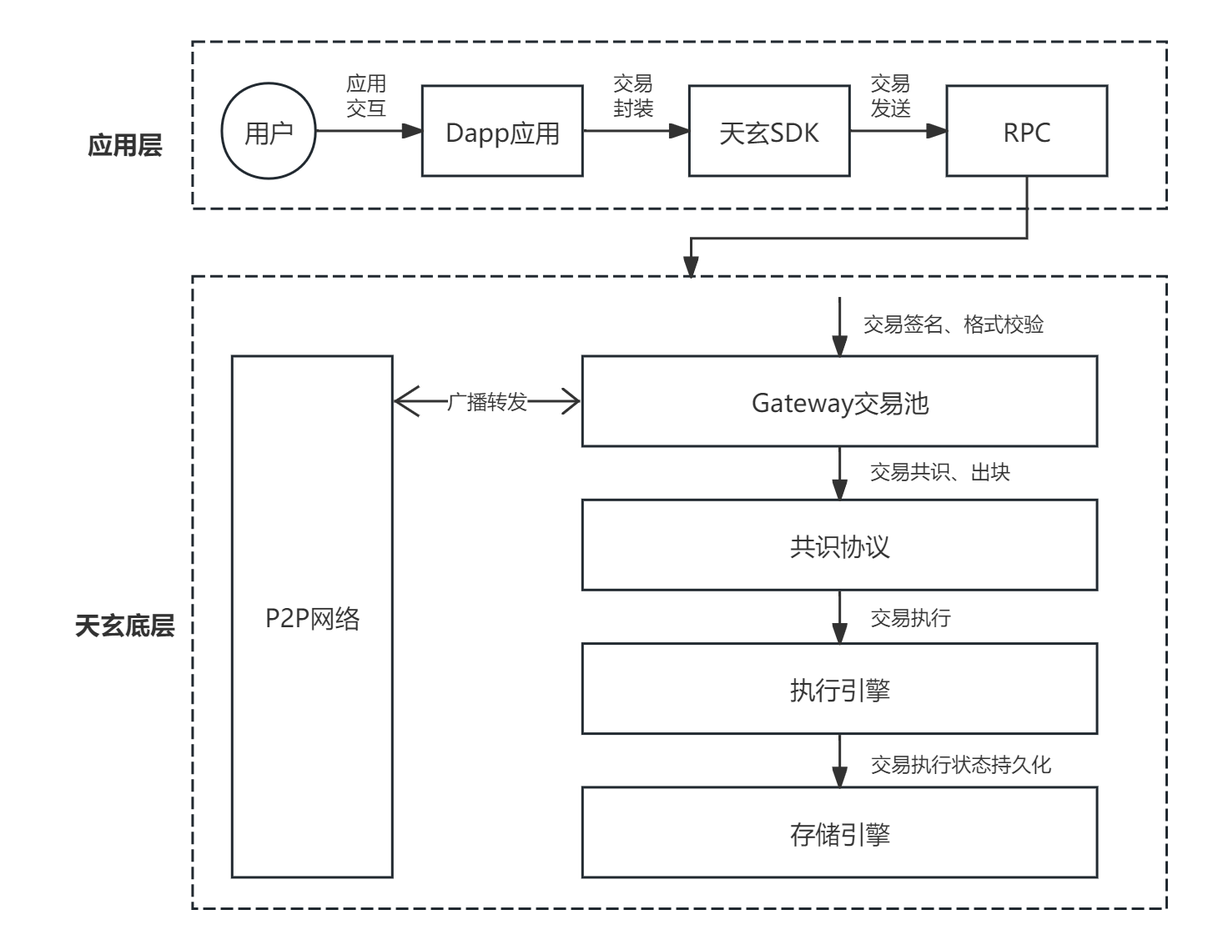
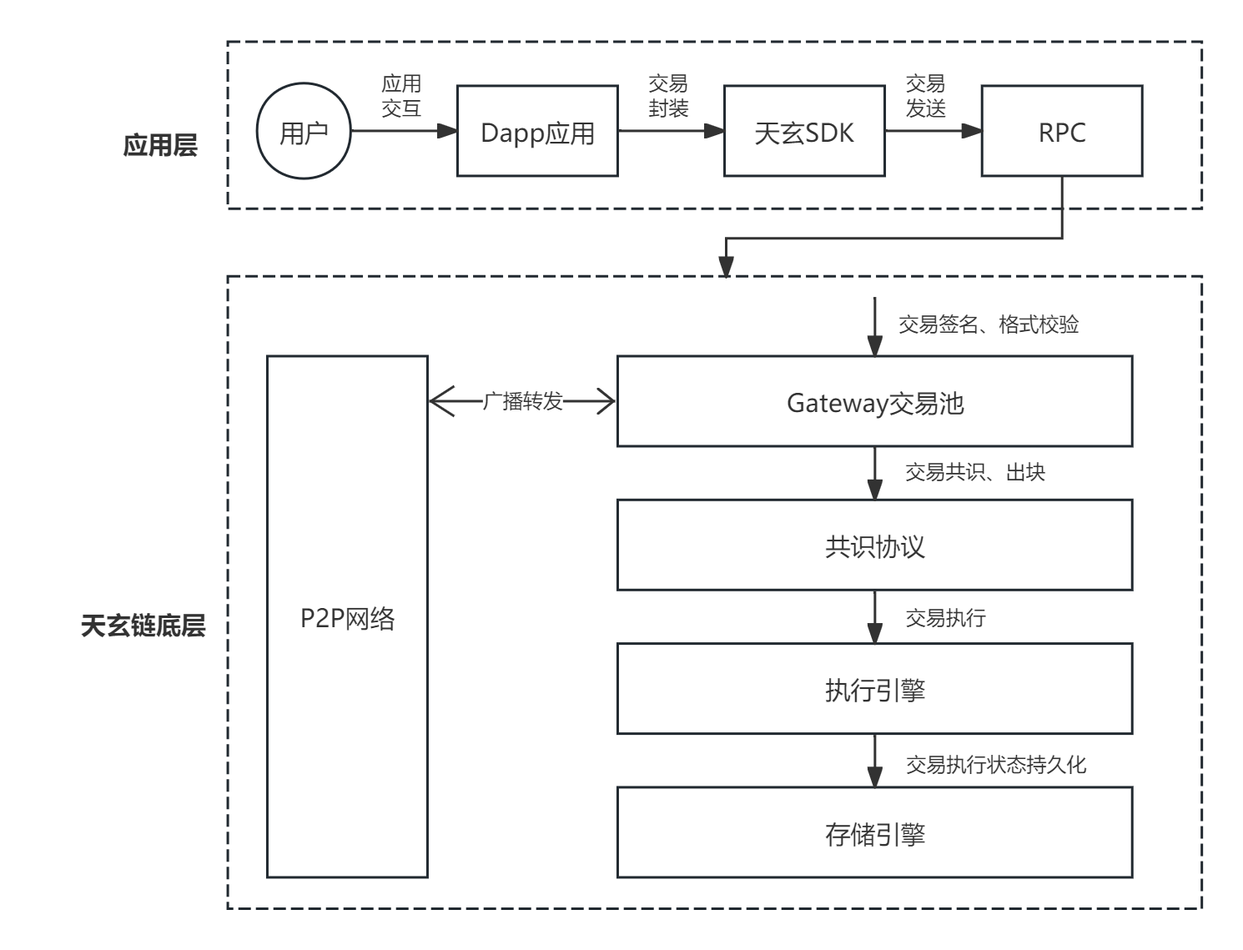
update

diff --git a/architecture/core-modules/crypto.md b/architecture/core-modules/crypto.md
@@ -1,17 +1,17 @@
 ## 4.9.1. 概述
 
-除了标准的加密算法，天玄还充分支持国产密码学算法，基于[国产密码学标准](http://www.gmbz.org.cn/main/bzlb.html)，实现了国密加解密、签名、验签、哈希算法、国密 *SSL* 通信协议，对国家密码局认定的商用密码完全支持。
+除了标准的加密算法，天玄链还充分支持国产密码学算法，基于[国产密码学标准](http://www.gmbz.org.cn/main/bzlb.html)，实现了国密加解密、签名、验签、哈希算法、国密 *SSL* 通信协议，对国家密码局认定的商用密码完全支持。
 
-国密版天玄将交易签名验签、*P2P* 网络连接、节点连接、数据落盘加密等底层模块的密码学算法均替换为国密算法，国密版天玄与标准版主要特性对比如下：
+国密版天玄链将交易签名验签、*P2P* 网络连接、节点连接、数据落盘加密等底层模块的密码学算法均替换为国密算法，国密版天玄链与标准版主要特性对比如下：
 
-|       | ECDSA版天玄            | EdDSA版天玄   | 国密版天玄 |
+|       | ECDSA 版天玄链           | EdDSA 版天玄链   | 国密版天玄链 |
 | ------- | ------------- | ------------- | ------------- |
-| SSL链接 | Openssl TLSv1.2协议     | TLSv1.3协议 | 国密TLSv1.1协议       |
-| 签名验证  | ECDSA签名算法 | Ed25519签名算法 | SM2签名算法       |
-| 消息摘要算法    | SHA-256 SHA-3 | SHA-256 SHA-3 | SM3消息摘要算法       |
-| 落盘加密算法    | AES-256加密算法 | AES-256加密算法 | SM4加密算法       |
-| 证书模式    | OpenSSL证书模式 | OpenSSL证书模式 | 国密双证书模式       |
-| 合约编译器    | 以太坊solidity编译器 | 以太坊solidity编译器	 | 国密solidity编译器|
+| SSL 链接 | Openssl TLSv1.2 协议     | TLSv1.3 协议 | 国密 TLSv1.1 协议       |
+| 签名验证  | ECDSA 签名算法 | Ed25519 签名算法 | SM2 签名算法       |
+| 消息摘要算法    | SHA-256 SHA-3 | SHA-256 SHA-3 | SM3 消息摘要算法       |
+| 落盘加密算法    | AES-256 加密算法 | AES-256 加密算法 | SM4 加密算法       |
+| 证书模式    | OpenSSL 证书模式 | OpenSSL 证书模式 | 国密双证书模式       |
+| 合约编译器    | 以太坊 solidity 编译器 | 以太坊 solidity 编译器	 | 国密 solidity 编译器|
 
 (注：国密算法 *SM2* , *SM3* , *SM4* 均基于国产密码学标准开发)
 ## 4.9.2. 系统框架
@@ -20,7 +20,7 @@
 <div style="text-align: left;">
     <figure style="display: inline-block; margin: 0;">
         <img src="../../assets/密码.png" alt="图1. 天玄密码框架" style="width: 100%; max-width: 800px; height: auto;">
-        <figcaption style="text-align: center; max-width: 1000px; font-weight: bold; font-size: 14px; color: #555;">图1. 天玄密码框架</figcaption>
+        <figcaption style="text-align: center; max-width: 1000px; font-weight: bold; font-size: 14px; color: #555;">图1. 天玄链密码框架</figcaption>
     </figure>
 </div>
 
@@ -35,11 +35,11 @@
 | 证书模式	    | OpenSSL证书模式	 | 国密双证书模式，分别为加密证书和签名证书 |
 
 ## 4.9.4. 数据结构差异
-国密版与标准版天玄在数据结构上的差异如下：
+国密版与标准版天玄链在数据结构上的差异如下：
 
-| 算法类型      | ECDSA版天玄            | EdDSA版天玄   | 国密版天玄 |
+| 算法类型      | ECDSA 版天玄链            | EdDSA 版天玄链   | 国密版天玄链 |
 | ------- | ------------- | ------------- | ------------- |
 | 签名 | ECDSA (公钥长度: 512 bits, 私钥长度: 256 bits)	     | Ed25519 (公钥长度：256bits 私钥长度：256bits)	 | SM2 (公钥长度：512 bits, 私钥长度：256 bits)       |
 | 哈希  | SHA3 (哈希串长度: 256 bits) | 	SHA3 (哈希串长度: 256 bits) | SM3 (哈希串长度: 256 bits)       |
 | 对称加解密	    | AES (加密秘钥长度: 256 bits) | AES (加密秘钥长度: 256 bits) | SM4 (对称密钥长度: 128 bits)       |
-| 交易长度	    | 520bits（其中标识符8bits,签名长度512bits） | 520bits (其中标识符8bits,签名长度512bits) | 1024bits(128字节，其中公钥512bits,签名长度512bits)       |
+| 交易长度	    | 520bits（其中标识符8bits,签名长度512bits） | 520bits (其中标识符8bits,签名长度512bits) | 1024bits (128字节，其中公钥 512bits ,签名长度 512bits )       |

diff --git a/architecture/data-structure-and-encoding.md b/architecture/data-structure-and-encoding.md
@@ -1,6 +1,6 @@
 区块链中，交易、收据、区块是三种重要的数据结构，是外界与区块链系统沟通的一种数据格式。
 
-而天玄中，对以太坊原有的数据格式上新增了天玄必备的数据字段。如下：
+而天玄链中，对以太坊原有的数据格式上新增了天玄链必备的数据字段。如下：
 
 ## 3.1. 交易数据（EthTransaction）
 
@@ -9,10 +9,10 @@
 |publicKey| bytes20       | 交易发起公钥                                       | 0       |          
 |nonce| u256          | nonce值，标识当前交易执行的唯一性                          | 1       |              
 |futureEventNumber| u256          | 系统查重使用                                | 2       |  
-|gasPrice| u256          | gas价格，天玄中暂未启用                                | 3       |           
+|gasPrice| u256          | gas价格，天玄链中暂未启用                                | 3       |           
 |gasLimit| u256          | gas限制，当前交易执行的gas消耗上限，天玄中暂无启用                | 4       |          
 |receiveAddress| bytes20       | 调用地址，交易调用的接收地址                               | 5       |     
-|value| u256          | 当前交易的转账数额，天玄中暂未启用                            | 6       |              
+|value| u256          | 当前交易的转账数额，天玄链中暂未启用                            | 6       |              
 |data| vector&lt;byte&gt; | 调用内容，若receiveAddress=0x0，则为合约代码；否则为合约方法的函数签名 | 7       |             
 |executeStates| set&lt;byte&gt;    | 读写状态，当前交易涉及读、写的状态集合                          | 8       
 |signature| vector&lt;byte&gt; | 交易发起者签名                                      | 9       |          
@@ -23,9 +23,9 @@
 | ------------ | ------------------------------ | ---------------------- | -------------------------------------------------------------------------- |
 | eventId      | bytes32                        | 当前区块内容哈希，构建链式数据        | 0                                                                          |
 | preEventId   | bytes32                        | 上一个区块内容哈希，构建链式数据       | 1                                                                          |
-| coinBase     | btyes0                         | 矿工地址，天玄中暂未启用           | 2                                                                          |
-| stateRoot    | bytes0                         | 状态跟，天玄中暂未启用            | 3                                                                          |
-| receiptsRoot | bytes0                         | 收据根，天玄中暂未启用            | 4                                                                          |
+| coinBase     | btyes0                         | 矿工地址，天玄链中暂未启用           | 2                                                                          |
+| stateRoot    | bytes0                         | 状态跟，天玄链中暂未启用            | 3                                                                          |
+| receiptsRoot | bytes0                         | 收据根，天玄链中暂未启用            | 4                                                                          |
 | epoch        | u256                           | 世代号，标记当前验证者集合所处时间单位    | 5                                                                          |
 | number       | u256                           | 区块号，标记当前区块的高度          | 6                                                                          |
 | timestamp    | u256                           | 时间戳，标记当前区块的出块时间        | 7                                                                          |

diff --git a/architecture/core-modules/storage.md b/architecture/core-modules/storage.md
@@ -2,7 +2,7 @@
 
 在传统公链架构中，核心的存储模型架构还是以 *MPT*（默克尔压缩前缀树）的方式组织，目的是方便对状态提供存在性证明。使用 *MPT* 树能够最大程度上提供数据的存在性证明的情况下，减少树更新的计算次数。但对于联盟链来说，使用 *MPT* 树是一种性能的降低。在基于 *EVM* 的账户模型数据以及合约代码中数据的存取 ，其底层就是对 *MPT* 的 *CRUD* 操作。因此，树节点的读取可能会读取多次磁盘（根据树高以及节点的大小来决定读取次数），而一个节点的变更可能会引起 *MPT* 多次的裂变。
 
-随着合约代码的存储数据越大，会导致 *EVM* 执行速度线性下降(生产环境中，出现线性下降的情况)。而天玄中，通过去 *MPT* 的存储结构来解决随着状态数据的增加而导致 *EVM* 执行速度线性下降的问题。
+随着合约代码的存储数据越大，会导致 *EVM* 执行速度线性下降(生产环境中，出现线性下降的情况)。而天玄链中，通过去 *MPT* 的存储结构来解决随着状态数据的增加而导致 *EVM* 执行速度线性下降的问题。
 ## 4.4.2. 去MPT存储
 
 ### 4.4.2.1. MPT 使用对比 <a href="#id5.4.4-cun-chu-mo-kuai-mpt-shi-yong-dui-bi" id="id5.4.4-cun-chu-mo-kuai-mpt-shi-yong-dui-bi"></a>
@@ -53,19 +53,19 @@
 
 其中，依次先向缓存、*db* 读取。
 
-### 4.4.2.3. 天玄去MPT架构 <a href="#id5.4.4-cun-chu-mo-kuai-tian-xuan-qu-mpt-jia-gou" id="id5.4.4-cun-chu-mo-kuai-tian-xuan-qu-mpt-jia-gou"></a>
+### 4.4.2.3. 天玄链去MPT架构 <a href="#id5.4.4-cun-chu-mo-kuai-tian-xuan-qu-mpt-jia-gou" id="id5.4.4-cun-chu-mo-kuai-tian-xuan-qu-mpt-jia-gou"></a>
 
-由于每次读写状态都需要对前缀树进行检索，严重影响联盟链场景下的执行效率。天玄直接使用 *HashMap* 作为替代方案，每个 *\<storage key, value>* 直接存储到 *HashMap* 中，不通过 *MPT* 树检索。另外，为了区分不用合约账户的数据状态，确保数据状态的全局唯一性，*storage key* 的计算方式变为：`new storage key = sha3(account address+ storage key)` 。
+由于每次读写状态都需要对前缀树进行检索，严重影响联盟链场景下的执行效率。天玄链直接使用 *HashMap* 作为替代方案，每个 *\<storage key, value>* 直接存储到 *HashMap* 中，不通过 *MPT* 树检索。另外，为了区分不用合约账户的数据状态，确保数据状态的全局唯一性，*storage key* 的计算方式变为：`new storage key = sha3(account address+ storage key)` 。
 
-天玄架构中，去 *MPT* 对整个架构的影响体现在两个部分。
+天玄链架构中，去 *MPT* 对整个架构的影响体现在两个部分。
 
 * 共识执行部分，发生对状态的读写工作。
 * 状态的持久化工作。
 
 <div style="text-align: left;">
     <figure style="display: inline-block; margin: 0;">
-        <img src="../../assets/去MPT树执行.png" alt="图3. 天玄处理流程" style="width: 100%; max-width: 800px; height: auto;">
-        <figcaption style="text-align: center; max-width: 1000px; font-weight: bold; font-size: 14px; color: #555;">图3. 天玄处理流程</figcaption>
+        <img src="../../assets/去MPT树执行.png" alt="图3. 天玄链处理流程" style="width: 100%; max-width: 800px; height: auto;">
+        <figcaption style="text-align: center; max-width: 1000px; font-weight: bold; font-size: 14px; color: #555;">图3. 天玄链处理流程</figcaption>
     </figure>
 </div>
 

diff --git a/architecture/core-modules/consensus.md b/architecture/core-modules/consensus.md
@@ -2,7 +2,7 @@
 
 共识协议最早被使用在分布式容错系统当中，保证系统整体对外表现状态的一致性和活性。而区块链可以理解为一种拜占庭容错的分布式系统，区块链节点通过共识协议对输入的状态读写指令顺序达成一致，保证分布式系统执行指令顺序一致性，实现最终状态的一致性。其中，较为经典的共识算法簇 *BFT* ，其思想基本已经作为区块链的共识算法的主流，被广泛应用在公链或联盟链当中。
 
-在天玄架构中，同样使用 *BFT* 算法簇之一的 *HotStuff* 作为其中共识模块的实现基础。相比较于经典的 *PBFT* 协议，*HotStuff* 算法具备低消息复杂度，以及视图切换和常规共识流程的统一性。在 *HotStuff* 基础之上，天玄结合执行和共识流程对其进行了异步化改造，进一步提升了整体架构的性能表现。
+在天玄链架构中，同样使用 *BFT* 算法簇之一的 *HotStuff* 作为其中共识模块的实现基础。相比较于经典的 *PBFT* 协议，*HotStuff* 算法具备低消息复杂度，以及视图切换和常规共识流程的统一性。在 *HotStuff* 基础之上，天玄链结合执行和共识流程对其进行了异步化改造，进一步提升了整体架构的性能表现。
 
 ## 4.1.2. 基础模型
 
@@ -19,9 +19,9 @@
     </figure>
 </div>
 
- 在天玄实现中，`E` 所代表的是共识事件 *Event* 消息，由一系列交易集合组成，每一个事件都有一个 *Round* 轮次，该轮次是单独递增 1 。`QC` 则是节点收消息后，投票内签名的集合或者生成的聚合签名，用来表示当前消息经过一定数量（*BFT* 系统当中，通常为系统节点数量的 2/3）的节点确认。流水线共识过程中，每次共识发起时，都会选择将 *Round* 轮次最大的 `QC` 包含在 `E` 消息内，来进行下一轮次的共识。当有某个 `E` 经过连续三轮正常共识的共识后，如上图中 `Round(E1) + 2 == Round(E2) + 1 == Round(E3)` 时，则全网可以对 `E1` 进行确认，即将状态变更持久化。
+ 在天玄链实现中，`E` 所代表的是共识事件 *Event* 消息，由一系列交易集合组成，每一个事件都有一个 *Round* 轮次，该轮次是单独递增 1 。`QC` 则是节点收消息后，投票内签名的集合或者生成的聚合签名，用来表示当前消息经过一定数量（*BFT* 系统当中，通常为系统节点数量的 2/3）的节点确认。流水线共识过程中，每次共识发起时，都会选择将 *Round* 轮次最大的 `QC` 包含在 `E` 消息内，来进行下一轮次的共识。当有某个 `E` 经过连续三轮正常共识的共识后，如上图中 `Round(E1) + 2 == Round(E2) + 1 == Round(E3)` 时，则全网可以对 `E1` 进行确认，即将状态变更持久化。
 
-## 4.1.3. 天玄共识流程
+## 4.1.3. 天玄链共识流程
 
 ### 4.1.3.1. 常规流程
 
@@ -53,7 +53,7 @@
 
 通过 `QC` 判断是否存在 *Decide* 阶段的 `E` (*Event*) ，如果有，则执行处于 *Decide* 阶段及其所有先驱节点进行共识提交（即持久化），并异步通知共识处理流程。
 
-最后，在天玄中，还需要针对节点事件进行处理，当前是否存在节点加入、退出共识网络。
+最后，在天玄链中，还需要针对节点事件进行处理，当前是否存在节点加入、退出共识网络。
 
 处理完成，将处理结果打包成投票消息，发送给 *Round + 1* 的新节点。
 

diff --git a/architecture/tx-process.md b/architecture/tx-process.md
@@ -1,6 +1,6 @@
 ## 2.1. 概述
 
-在天玄中，智能合约是一段完整的业务代码，其中定义了对区块链数据状态读写的规则。而交易则是用户发起对智能合约程序的调用，实现对数据状态的变更媒介，其记录了区块链中数据状态发生变化的一切。交易的执行过程反映了用户在区块链上的活动，也是区块链系统的主要工作。
+在天玄链中，智能合约是一段完整的业务代码，其中定义了对区块链数据状态读写的规则。而交易则是用户发起对智能合约程序的调用，实现对数据状态的变更媒介，其记录了区块链中数据状态发生变化的一切。交易的执行过程反映了用户在区块链上的活动，也是区块链系统的主要工作。
 
 天玄链的交易流程主要分为四个步骤：
 
@@ -20,7 +20,7 @@
 
 ### 2.2.1. 交易发起 <a href="#id5.2-qu-kuai-lian-jiao-yi-liu-cheng-1-jiao-yi-fa-qi" id="id5.2-qu-kuai-lian-jiao-yi-liu-cheng-1-jiao-yi-fa-qi"></a>
 
-当用户与应用客户端交互式，发生了区块链状态变更的操作，客户端需要通过天玄 *SDK* 构造一笔带用户签名的有效交易，以在区块链中执行这些状态变更。该笔交易包含：
+当用户与应用客户端交互式，发生了区块链状态变更的操作，客户端需要通过天玄链 *SDK* 构造一笔带用户签名的有效交易，以在区块链中执行这些状态变更。该笔交易包含：
 
 * **交易发起地址**：代表用户发起交易的地址（通常指公钥地址）。
 
@@ -28,7 +28,7 @@
 
 * **交易接收地址**：通常指交互的智能合约地址。在联盟链中，交易分为两类，其一是部署合约交易；其二是合约调用交易。前者不指定地址，后者指定已部署的合约地址。
 
-* **交易签名**：使用的代表用户身份的地址产生的签名，以便天玄对交易进行验证，目的是防止伪造交易。
+* **交易签名**：使用的代表用户身份的地址产生的签名，以便天玄链对交易进行验证，目的是防止伪造交易。
 
 * **其他交易校验数据**：具体可参见[交易数据说明文档](./data-structure-and-encoding.md#交易数据ethtransaction)。
 
@@ -50,7 +50,7 @@
 
 在节点对区块完成共识后，按照共识顺序，将被执行引擎按照区块为单位进行交易的批次执行。
 
-通常，区块链系统的运行被抽象为状态机，按照基于相同的初始状态开始，执行相同顺序的状态读写日志（即，交易），最终会到达相同的状态原则，一般会采用串行执行模型保证区块链状态的一致。在天玄中，交易执行采用了并行执行引擎。因此，通过开发者指定的依赖构造交易的依赖图，即 *DAG* 图，再根据 *DAG* 节点依赖关系对交易进行并行执行。
+通常，区块链系统的运行被抽象为状态机，按照基于相同的初始状态开始，执行相同顺序的状态读写日志（即，交易），最终会到达相同的状态原则，一般会采用串行执行模型保证区块链状态的一致。在天玄链中，交易执行采用了并行执行引擎。因此，通过开发者指定的依赖构造交易的依赖图，即 *DAG* 图，再根据 *DAG* 节点依赖关系对交易进行并行执行。
 
 为保证并行执行的正确性，防止任何外部的行为导致的状态不一致，执行的过程存在两条路径：
 

diff --git a/architecture/overview.md b/architecture/overview.md
@@ -1,6 +1,6 @@
 ## 1.1. 概述
 
-天玄链使用模块化方式进行设计，方便对各个模块进行插拔和兼容。整体架构自下而上，天玄划分成基础层、核心层和网关层。
+天玄链使用模块化方式进行设计，方便对各个模块进行插拔和兼容。整体架构自下而上，天玄链划分成基础层、核心层和网关层。
 
 <div style="text-align: left;">
     <figure style="display: inline-block; margin: 0;">
@@ -19,24 +19,24 @@
 
 ### 1.2.1. 共识算法
 
-天玄实现了可大规模扩展的 *HotStuff* 算法，并对其进行异步化改进升级，实现了更高性能的吞吐量和处理速度。在单链架构中，天玄将执行和共识过程分离，实现流水线共识、执行的异步化，进一步突破了单链的性能瓶颈。
+天玄链实现了可大规模扩展的 *HotStuff* 算法，并对其进行异步化改进升级，实现了更高性能的吞吐量和处理速度。在单链架构中，天玄链将执行和共识过程分离，实现流水线共识、执行的异步化，进一步突破了单链的性能瓶颈。
 
 ### 1.2.2. P2P网络
 
-天玄实现了 *Gossip* 协议，提供了高效、通用、安全以及节点发现的网络通信基础功能，支持区块链消息的 *RPC* 调用，单播和全局广播。
+天玄链实现了 *Gossip* 协议，提供了高效、通用、安全以及节点发现的网络通信基础功能，支持区块链消息的 *RPC* 调用，单播和全局广播。
 
 ### 1.2.3. 加密机制
 
-天玄充分支持国产密码学算法，基于[国产密码学标准](http://www.gmbz.org.cn/main/bzlb.html)，主要包括国密 *TLSv1.1* 协议、*SM2* 签名算法、*SM3* 消息摘要算法、*SM4* 加密算法、国密双证书模式、国密 *Solidity* 编译器。
+天玄链充分支持国产密码学算法，基于[国产密码学标准](http://www.gmbz.org.cn/main/bzlb.html)，主要包括国密 *TLSv1.1* 协议、*SM2* 签名算法、*SM3* 消息摘要算法、*SM4* 加密算法、国密双证书模式、国密 *Solidity* 编译器。
 
 ### 1.2.4. 执行引擎
 
-天玄的可插拔执行模块目前支持 *EVM* 、*JVM* 两种执行引擎。并且针对串行效率问题构建交易执行依赖的 *DAG* 图，实现了线性序等价的并行执行。
+天玄链的可插拔执行模块目前支持 *EVM* 、*JVM* 两种执行引擎。并且针对串行效率问题构建交易执行依赖的 *DAG* 图，实现了线性序等价的并行执行。
 
 ### 1.2.5. 存储模型
 
-天玄针对联盟链场景，对存储模型进行了优化，去除了 *MPT* 树的索引结构，减少了在执行是对 *MPT* 树的检索。底层使用 *LevelDB* 作为持久化存储引擎，以支持海量数据。
+天玄链针对联盟链场景，对存储模型进行了优化，去除了 *MPT* 树的索引结构，减少了在执行是对 *MPT* 树的检索。底层使用 *LevelDB* 作为持久化存储引擎，以支持海量数据。
 
 ### 1.2.6. 身份认证
 
-天玄采取集中式认证体系。为联盟链构建了三级的 *CA* 准入机制：【链证书 → 机构证书 → 节点证书】，分别对三个级别的组织、机构的加入和退出提供验证功能。
+天玄链采取集中式认证体系。为联盟链构建了三级的 *CA* 准入机制：【链证书 → 机构证书 → 节点证书】，分别对三个级别的组织、机构的加入和退出提供验证功能。

diff --git a/quick-start/depoly-tianxaun-chain/run.md b/quick-start/depoly-tianxaun-chain/run.md
@@ -10,9 +10,9 @@ bash install_node.sh #运行安装脚本
 
 执行成功后，会在每个 *node* 目录中生成 *thanos-chain* 和 *thanos-gateway* 两个目录。
 
-## 1.4.2. 启动节点应用 <a href="#id2.4-an-zhuang-bing-qi-dong-jie-dian-qi-dong-jie-dian-ying-yong" id="id2.4-an-zhuang-bing-qi-dong-jie-dian-qi-dong-jie-dian-ying-yong"></a>
+## 1.4.2. 启动节点服务 <a href="#id2.4-an-zhuang-bing-qi-dong-jie-dian-qi-dong-jie-dian-ying-yong" id="id2.4-an-zhuang-bing-qi-dong-jie-dian-qi-dong-jie-dian-ying-yong"></a>
 
-启动四个节点应用，顺序为先启动 *thanos-chain* 应用，再启动 *thanos-gateway* 应用。
+启动四个节点服务，顺序为先启动 *thanos-chain* 服务，再启动 *thanos-gateway* 网关。
 
 ```bash
 # 以node0为例
@@ -20,19 +20,19 @@ cd node0/thanos-chain
 bash start_chain.sh
 ```
 
-当配置的初始节点应用均已启动，则链启动完成。脚本中每个进程默认设置占用 *1g* 的内存，如果需要修改，可以进入脚本中直接修改运行指令。
+当配置的初始节点服务均已启动，则链启动完成。脚本中每个进程默认设置占用 *1g* 的内存，如果需要修改，可以进入脚本中直接修改运行指令。
 
-运行脚本会后台启动应用，运行结果不会直接输出，请转至相应的 `logs` 目录下查看运行日志。
+运行脚本会后台启动进程，运行结果不会直接输出，请转至相应的 `logs` 目录下查看运行日志。
 
 ```bash
 # 以node0为例
 cd node0
-tail -f thanos-chain/logs/thanos-chain.log | grep 'empty do commit cost' #如果持续打印该消息，说明节点chain应用启动成功并参与共识。
+tail -f thanos-chain/logs/thanos-chain.log | grep 'empty do commit cost' #如果持续打印该消息，说明节点 chain 服务启动成功并参与共识。
 ```
 
 ## 1.4.3. 启动节点网关 <a href="#id2.4-an-zhuang-bing-qi-dong-jie-dian-qi-dong-jie-dian-wang-guan" id="id2.4-an-zhuang-bing-qi-dong-jie-dian-qi-dong-jie-dian-wang-guan"></a>
 
-节点应用启动成功后，再启动 *thanos-gateway*
+节点服务启动成功后，再启动 *thanos-gateway* 网关
 
 ```bash
 # 以node0为例
@@ -45,7 +45,7 @@ bash start_gateway.sh
 ```bash
 # 以node0为例
 cd node0
-cat thanos-gateway/logs/thanos-gateway.log |grep 'INFO [main]  Main start success!!' #如果打印该消息，说明节点gateway应用启动成功。
+cat thanos-gateway/logs/thanos-gateway.log |grep 'INFO [main]  Main start success!!' #如果打印该消息，说明节点 gateway 程序启动成功。
 ```
 
 ## 其他问题

diff --git a/architecture/core-modules/gateway.md b/architecture/core-modules/gateway.md
@@ -1,12 +1,12 @@
 ## 4.7.1. 概述
 
-在天玄中，网关的主要任务是负责接收外部交易并缓存到交易池、使用 *P2P* 协议对加以进行广播、推送交易池中的交易到节点中进行共识、执行。
+在天玄链中，网关的主要任务是负责接收外部交易并缓存到交易池、使用 *P2P* 协议对加以进行广播、推送交易池中的交易到节点中进行共识、执行。
 
 通常，完整的以太坊节点交易池、*P2P* 、共识节点网络一体，尤其是在大量交易等待验签、广播的场景下，交易不能得到充分传播，联盟链性能很容易受到约束。而抽象出网关单独处理验签、广播、交易池的工作能够提高交易的吞吐量，释放共识性能。
 
 ## 4.7.2. 详细设计
 
-天玄网关可分为三个模块：
+天玄链网关可分为三个模块：
 
 1. *JSON RPC* 服务。
 2. 交易池服务。
@@ -22,11 +22,11 @@
 
 ### 4.7.2.1. JSON RPC
 
-天玄 *JSON RPC* 是一套基于 *Jsonrpc4j* 提供的 *RPC* 服务，其遵循 *JSONRPC 2.0* 标准，主要提供区块链数据查询和交互的功能，详细的接口定义参考 [JSON-RPC API接口文档](../../app-development-manual/interface-list.md)
+天玄链 *JSON RPC* 是一套基于 *Jsonrpc4j* 提供的 *RPC* 服务，其遵循 *JSONRPC 2.0* 标准，主要提供区块链数据查询和交互的功能，详细的接口定义参考 [JSON-RPC API接口文档](../../app-development-manual/interface-list.md)
 
 ### 交易池
 
-天玄网关交易池是一个生成者和消费者模型，由 *JSON RPC* 服务接收消费者交易，由广播和推送服务消费交易。基本模型如下：
+天玄链网关交易池是一个生成者和消费者模型，由 *JSON RPC* 服务接收消费者交易，由广播和推送服务消费交易。基本模型如下：
 
 <div style="text-align: left;">
     <figure style="display: inline-block; margin: 0;">
@@ -39,7 +39,7 @@
 交易池的主要工作包含：
 * 对输入的交易进行签名验证。
 * 缓存有效交易并推送广播。
-* 推送交易到共识节点。其中，推送服务是一个由 GRPC** 实现的一个高速透传发送，可以将推送队列中的消息快速推送到天玄共识节点。*GRPC* 拥有压缩效率高，传输速率高等优点。
+* 推送交易到共识节点。其中，推送服务是一个由 GRPC** 实现的一个高速透传发送，可以将推送队列中的消息快速推送到天玄链共识节点。*GRPC* 拥有压缩效率高，传输速率高等优点。
 
 ### 4.7.2.2. 交易广播服务
 

diff --git a/architecture/core-modules/certificate-authority.md b/architecture/core-modules/certificate-authority.md
@@ -1,6 +1,6 @@
 ## 4.6.1. 概述
 
-天玄作为联盟链，需要一套完整的联盟准入机制，即加入通信网络并参与共识的节点必须是经过验证的联盟成员。因此，天玄使用了一套基于 *CA* 体系构建的联盟准入机制，该机制理论上支持任意多级的证书结构，保证了良好的扩展性。根据现有业务场景，目前采用三层证书体系：【链证书 → 机构证书 → 节点证书】。
+天玄链作为联盟链，需要一套完整的联盟准入机制，即加入通信网络并参与共识的节点必须是经过验证的联盟成员。因此，天玄链使用了一套基于 *CA* 体系构建的联盟准入机制，该机制理论上支持任意多级的证书结构，保证了良好的扩展性。根据现有业务场景，目前采用三层证书体系：【链证书 → 机构证书 → 节点证书】。
 
 其中，<mark>链证书</mark>作为根证书，承担信任根的角色，由链管理员生成。一条联盟链唯一对应一个链证书，联盟链的所有节点都共享链证书，用于验证彼此证书的合法性。<mark>机构证书</mark>由机构管理者持有，用于给隶属于该机构的联盟节点颁发证书。通过层级设计，减少链私钥的使用，提高 *CA* 体系的安全性。<mark>节点证书</mark>由节点管理者持有，用于证明该节点公钥的合法性，在与其他节点建立安全通信和对消息进行签名验签的过程中必不可少。
 
@@ -34,14 +34,14 @@
     </figure>
 </div>
 
-### 4.6.2.2. 天玄 CA 机制
+### 4.6.2.2. 天玄链 CA 机制
 
 在三级证书体系的基础上，进一步构建 *CA* 机制的整体架构如下：
 
 <div style="text-align: left;">
     <figure style="display: inline-block; margin: 0;">
         <img src="../../assets/天玄CA机制.png" alt="图3. 天玄CA机制" style="width: 100%; max-width: 800px; height: auto;">
-        <figcaption style="text-align: center; max-width: 800px; font-weight: bold; font-size: 14px; color: #555;">图3. 天玄CA机制</figcaption>
+        <figcaption style="text-align: center; max-width: 800px; font-weight: bold; font-size: 14px; color: #555;">图3. 天玄链CA机制</figcaption>
     </figure>
 </div>
 

diff --git a/app-development-manual/java-sdk/quick-start.md b/app-development-manual/java-sdk/quick-start.md
@@ -6,7 +6,7 @@
 * **Maven3.3.9**： 项目编译需要依赖 *Maven*，且版本不低于 3.3.9
 * **bcprov-jdk**： 在使用 *sdk* 时，需要在 *java* 运行环境中（具体为 `$JAVA_HOME`（*JDK* 所在目录）`/jre/lib/ext` 目录下）添加 [bcprov-jdk15on-1.66.jar](https://github.com/TianXuan-Chain/thanos-package-generate/blob/main/dependencies/jar/bcprov-jdk15on-1.66.jar) 包
 * **IDE**： 进入[*IntelliJ IDEA* 官网](https://www.jetbrains.com/idea/download/)，下载并安装社区版 *IntelliJ IDEA*
-* **天玄测试链**： 请参考 [快速搭建天玄网络](../../quick-start/depoly-tianxaun-chain/README.md) 搭建，并获取到相应的 *http* 或者 *rpc* 链接
+* **天玄测试链**： 请参考 [快速搭建天玄链](../../quick-start/depoly-tianxaun-chain/README.md) 搭建，并获取到相应的 *http* 或者 *rpc* 链接
 * **智能合约应用**： 请准备好需要部署的应用合约（本教程涉及的物料包中也提供了两个简单的智能合约示例）
 
 ## 3.1.2. 编译智能合约 <a href="#id4.3.2-kuai-su-ru-men-bian-yi-zhi-neng-he-yue" id="id4.3.2-kuai-su-ru-men-bian-yi-zhi-neng-he-yue"></a>
@@ -283,7 +283,7 @@ tls {
 
 * 日志配置文件所在路径 *logConfigPath* (要求是绝对路径)
 * 如果应用需要使用链的 *http* 接口服务（包括合约部署和调用），需要修改配置项 *http.ip.list* ，对应网关所在机器 *ip* 和应用的 *http* 端口
-* 如果应用需要使用链的rpc接口服务（除合约部署和调用外，还有权限管理），需要修改配置项 *rpc.ip.list* ，对应网关所在机器 *ip* 和应用的 *rpc* 端口。并修改 *tls* 配置项，配置 *SDK* 密钥文件和链证书文件路径
+* 如果应用需要使用链的 *rpc* 接口服务（除合约部署和调用外，还有权限管理），需要修改配置项 *rpc.ip.list* ，对应网关所在机器 *ip* 和应用的 *rpc* 端口。并修改 *tls* 配置项，配置 *SDK* 密钥文件和链证书文件路径
 
 在业务系统中加载配置并完成 *Web3Manager* 的初始化。
 

diff --git a/architecture/core-modules/execution-pipeline.md b/architecture/core-modules/execution-pipeline.md
@@ -1,8 +1,8 @@
 ## 4.5.1. 概述
 
-区块链中，共识外的另一大性能瓶颈就是执行。主要原因是由于执行过程涉及到状态、区块链数据的持久化过程，该过程极度影响性能。为了将天玄的性能推到极致，在执行阶段针对执行、提交、持久化瓶颈进行流水线并行处理。
+区块链中，共识外的另一大性能瓶颈就是执行。主要原因是由于执行过程涉及到状态、区块链数据的持久化过程，该过程极度影响性能。为了将天玄链的性能推到极致，在执行阶段针对执行、提交、持久化瓶颈进行流水线并行处理。
 
-天玄中，重新定义了区块交易执行过程，分为了三个阶段。
+天玄链中，重新定义了区块交易执行过程，分为了三个阶段。
 
 1. **Execute 执行**：见[交易并行执行](tx-parallelization.md)部分。
 2. **Flush 刷盘**：执行状态缓存刷盘到 *Level db* 缓存。
@@ -21,7 +21,7 @@
 
 ### 4.5.2.1. 异步执行
 
-天玄中的三个阶段，执行、刷盘阶段都在本地完成，而第三阶段持久化则需要通过共识完成，全网执行状态的确认再持久化。启用两个线程的流水线处理过程如下：
+天玄链中的三个阶段，执行、刷盘阶段都在本地完成，而第三阶段持久化则需要通过共识完成，全网执行状态的确认再持久化。启用两个线程的流水线处理过程如下：
 
 1. *AsyncExecutor* 在启动时，将启动两个线程来流水线处理所有定序的区块，分别为 *mainExecutor* 以及 *subExecutor* 。
 2. *mainExecutor* 先获取当前需要待执行的已定序的共识负载（*payload*）并转为区块来执行，并等待唤醒信号，该信号来自于上一个区块的刷盘阶段执行完成。

diff --git a/installation-manual/tianxaun-chain/cert.md b/installation-manual/tianxaun-chain/cert.md
@@ -1,8 +1,8 @@
 ## 1.4.1. 概述 <a href="#id3.1.4-zheng-shu-shuo-ming-yi-gai-shu" id="id3.1.4-zheng-shu-shuo-ming-yi-gai-shu"></a>
 
-天玄采用面向 *CA* 的节点准入机制，支持任意多级的证书结构，保障信息保密性、认证性、完整性、不可抵赖性。
+天玄链采用面向 *CA* 的节点准入机制，支持任意多级的证书结构，保障信息保密性、认证性、完整性、不可抵赖性。
 
-天玄使用 [x509 协议的证书格式](https://en.wikipedia.org/wiki/X.509)，根据现有业务场景，默认采用三级的证书结构，自上而下分别为链证书、机构证书、节点证书。
+天玄链使用 [x509 协议的证书格式](https://en.wikipedia.org/wiki/X.509)，根据现有业务场景，默认采用三级的证书结构，自上而下分别为链证书、机构证书、节点证书。
 
 每条链拥有一个链证书及对应的链私钥，链私钥由联盟链委员会共同管理。联盟链委员会可以根据机构的证书请求文件，使用链私钥签发机构证书。
 
@@ -10,7 +10,7 @@
 
 节点证书是节点身份的凭证，用于与其他持有合法证书的节点间建立 *SSL* 连接，并进行加密通讯。
 
-天玄节点运行时的文件后缀介绍如下：
+天玄链节点运行时的文件后缀介绍如下：
 
 | .key | 私钥文件   |
 | ---- | ------ |
@@ -19,7 +19,7 @@
 
 ## 1.4.2. 角色定义 <a href="#id3.1.4-zheng-shu-shuo-ming-er-jue-se-ding-yi" id="id3.1.4-zheng-shu-shuo-ming-er-jue-se-ding-yi"></a>
 
-天玄证书结构中，共有三种角色，分别是联盟链委员会管理员、机构、节点。
+天玄链证书结构中，共有三种角色，分别是联盟链委员会管理员、机构、节点。
 
 **1）联盟链委员会**
 
